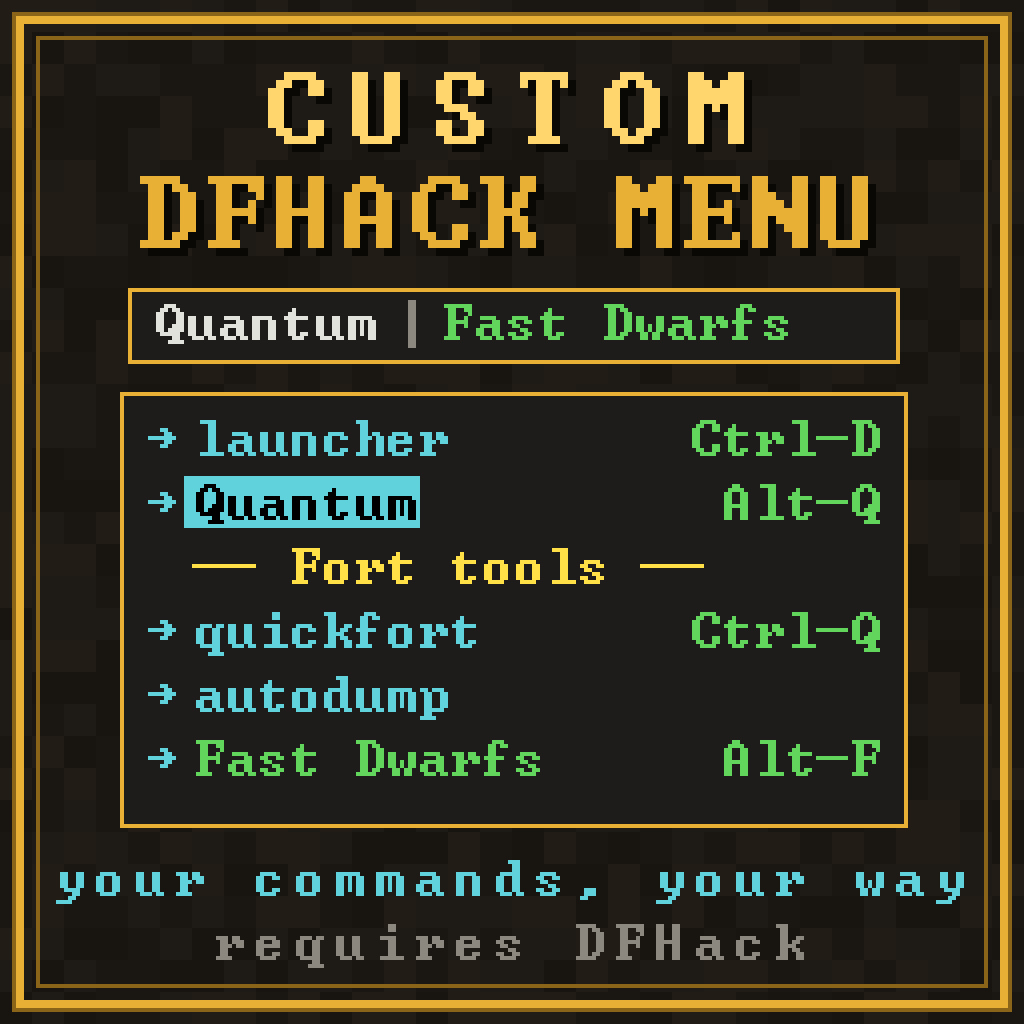
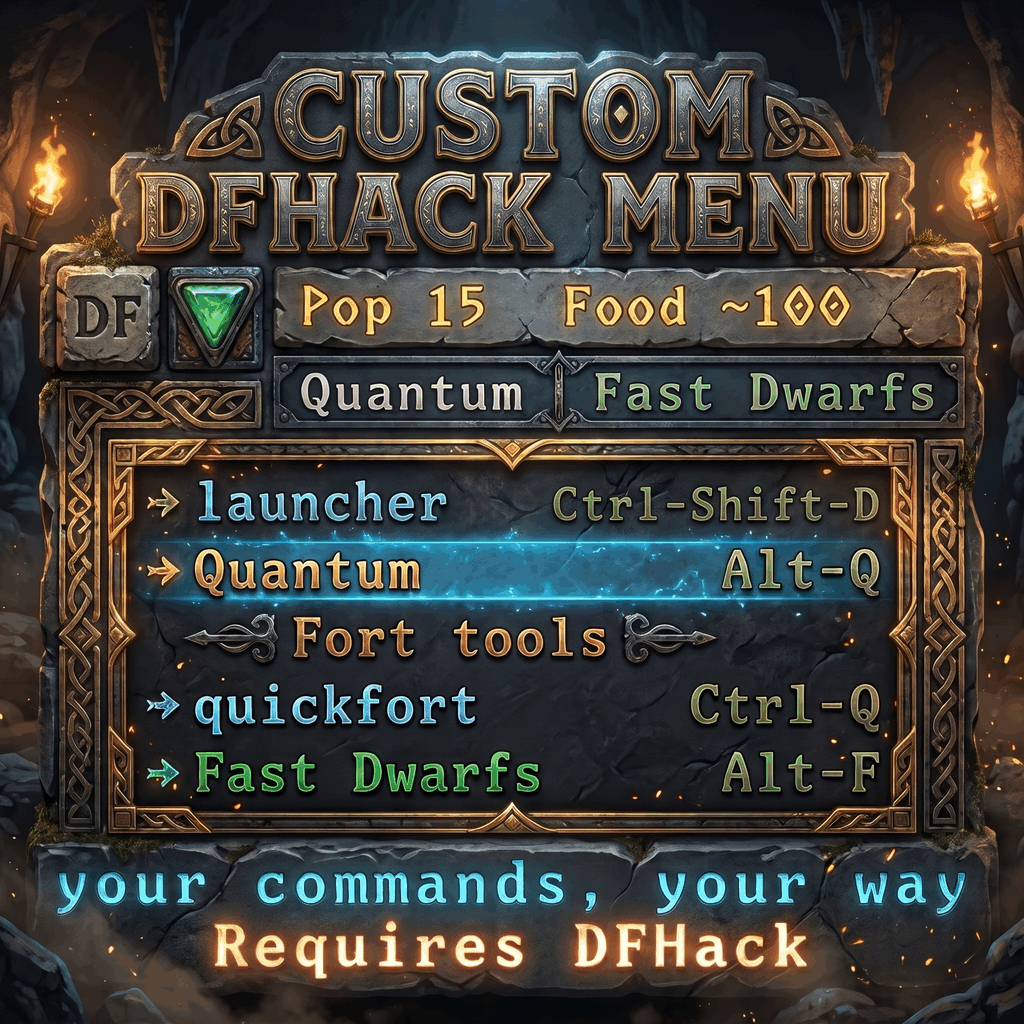
Add custom-menu-arrows-1.png, update custom-menu.lua and 7 more
What changed:
- custom-menu.lua: added function arrow_tiles, function arrow_pen, function ToolbarToggle; changed function ToolbarOverlay
- make_preview.py: changed def centered

New:
- scripts_modinstalled/custom-menu-arrows-1.png (binary)
Changed:
- scripts_modinstalled/custom-menu.lua (+52 -10)
- tools/make_preview.py (+24 -10)
- README.md (+4 -2)
- info.txt (+2)
- preview.png (binary)
- screenshots/menu.png (binary)
- screenshots/toolbar.png (binary)
- .gitignore (+1)

9 files changed, +83 -22

diff --git a/tools/make_preview.py b/tools/make_preview.py
@@ -75,31 +75,45 @@ d.rectangle([9, 9, W - 10, H - 10], outline=GOLD_DARK)
 centered(img, 'CUSTOM', 16, GOLD_LIGHT, scale=2, shadow=SHADOW, spacing=1)
 centered(img, 'DFHACK MENU', 42, GOLD, scale=2, shadow=SHADOW, spacing=-3)
 
-# toolbar strip
+# mock of the top-left of the fort screen: DFHack logo, toggle button, top bar,
+# and the toolbar hanging under the top bar
+BAR = (40, 36, 32)
+STEEL = (120, 120, 120)
+# DFHack logo box
+d.rectangle([16, 66, 38, 92], fill=(236, 236, 230), outline=(90, 90, 90))
+text(img, 'DF', 19, 73, (20, 20, 20), gw=8)
+# toggle box with a centred green down arrow
+d.rectangle([42, 66, 64, 92], fill=PANEL, outline=GOLD)
+d.rectangle([43, 67, 63, 91], outline=GOLD_DARK)
+for i, w in enumerate([10, 8, 6, 4, 2]):
+    y = 76 + i
+    d.line([53 - w // 2, y, 53 + w // 2 - 1, y], fill=GREEN)
+# top bar
+d.rectangle([68, 66, 240, 86], fill=BAR, outline=STEEL)
+text(img, 'Pop 15', 74, 70, WHITE, gw=8)
+text(img, 'Food ~100', 140, 70, (255, 224, 70), gw=8)
+# toolbar under it
 tb = ['Quantum', 'Fast Dwarfs']
-tw = width(' Quantum | Fast Dwarfs ', gw=8)
-tx0 = (W - tw) // 2 - 4
-d.rectangle([tx0, 72, tx0 + tw + 8, 90], fill=PANEL, outline=GOLD)
-x = tx0 + 6
+d.rectangle([68, 89, 240, 105], fill=PANEL, outline=GOLD)
+x = 74
 for i, name in enumerate(tb):
     if i:
-        text(img, [179], x, 75, GREY, gw=8); x += 12
-    text(img, name, x, 75, GREEN if name == 'Fast Dwarfs' else WHITE, gw=8)
+        text(img, [179], x, 92, GREY, gw=8); x += 12
+    text(img, name, x, 92, GREEN if name == 'Fast Dwarfs' else WHITE, gw=8)
     x += width(name, gw=8) + 4
 
 # menu panel
-px0, py0, px1, py1 = 30, 98, 226, 206
+px0, py0, px1, py1 = 30, 112, 226, 206
 d.rectangle([px0, py0, px1, py1], fill=PANEL, outline=GOLD)
 rows = [
     ('launcher', 'Ctrl-D', None),
     ('Quantum', 'Alt-Q', 'sel'),
     ('-- Fort tools --', None, 'head'),
     ('quickfort', 'Ctrl-Q', None),
-    ('autodump', None, None),
     ('Fast Dwarfs', 'Alt-F', 'on'),
 ]
 for i, (name, key, kind) in enumerate(rows):
-    y = py0 + 6 + i * 16
+    y = py0 + 7 + i * 17
     if kind == 'sel':
         d.rectangle([px0 + 16, y - 1, px0 + 18 + width(name, gw=8), y + 11], fill=SEL_BG)
     if kind == 'head':

diff --git a/README.md b/README.md
@@ -67,7 +67,8 @@ A popup lets you give it a name, like *Fast dwarves*, and asks whether to put it
 **Steam Workshop:** subscribe. There's no need to activate it in your mod list (it keeps itself out of the list) –
 DFHack loads scripts from `scripts_modinstalled/` for any installed mod.
 
-**Manual:** copy `scripts_modinstalled/custom-menu.lua` into `<Dwarf Fortress>/dfhack-config/scripts/`.
+**Manual:** copy both files in `scripts_modinstalled/` (`custom-menu.lua` and its arrow image) into
+`<Dwarf Fortress>/dfhack-config/scripts/`.
 
 Requires DFHack.
 
@@ -82,7 +83,8 @@ delete the marked lines.)
 
 ## Workshop preview image
 
-`preview.png` is generated by `tools/make_preview.py` using the game's own font:
+`preview.png` is the Workshop thumbnail (1024x1024, under Steam's 1 MB limit).
+`tools/make_preview.py` can generate a simple pixel-art alternative using the game's own font:
 
 ```
 python3 tools/make_preview.py "<Dwarf Fortress>/data/art/curses_800x600.png" preview.png
